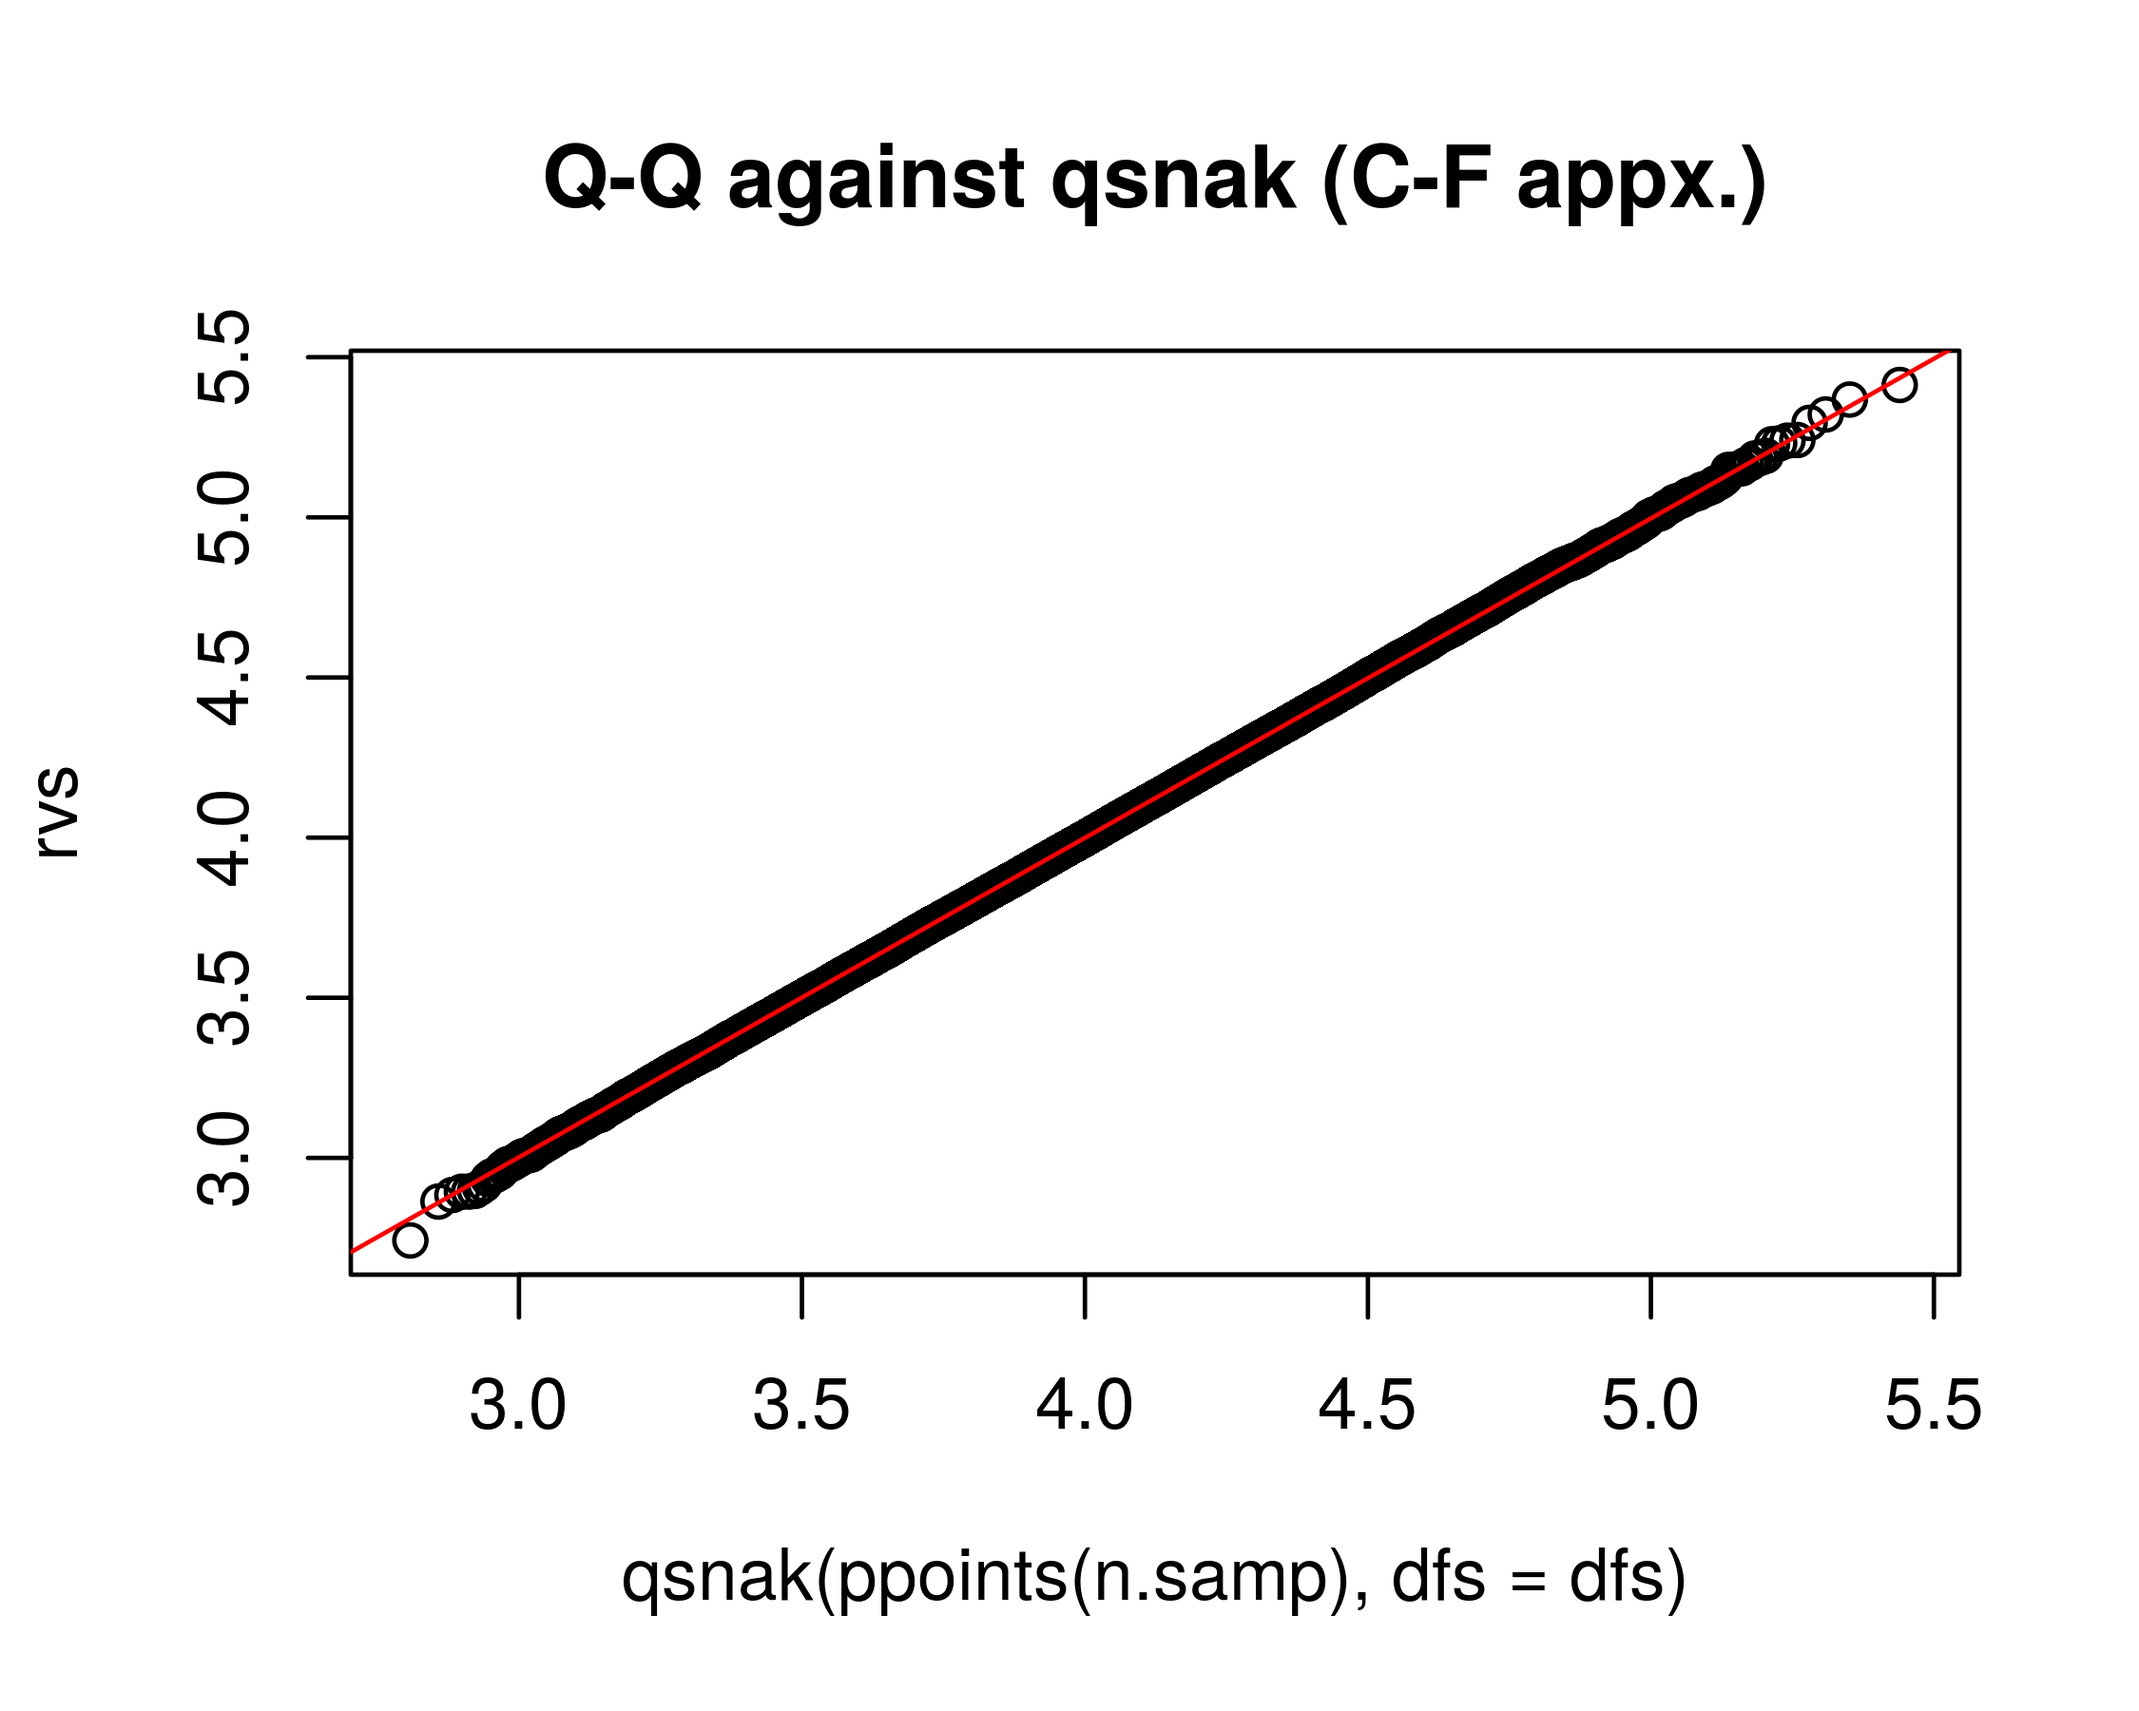
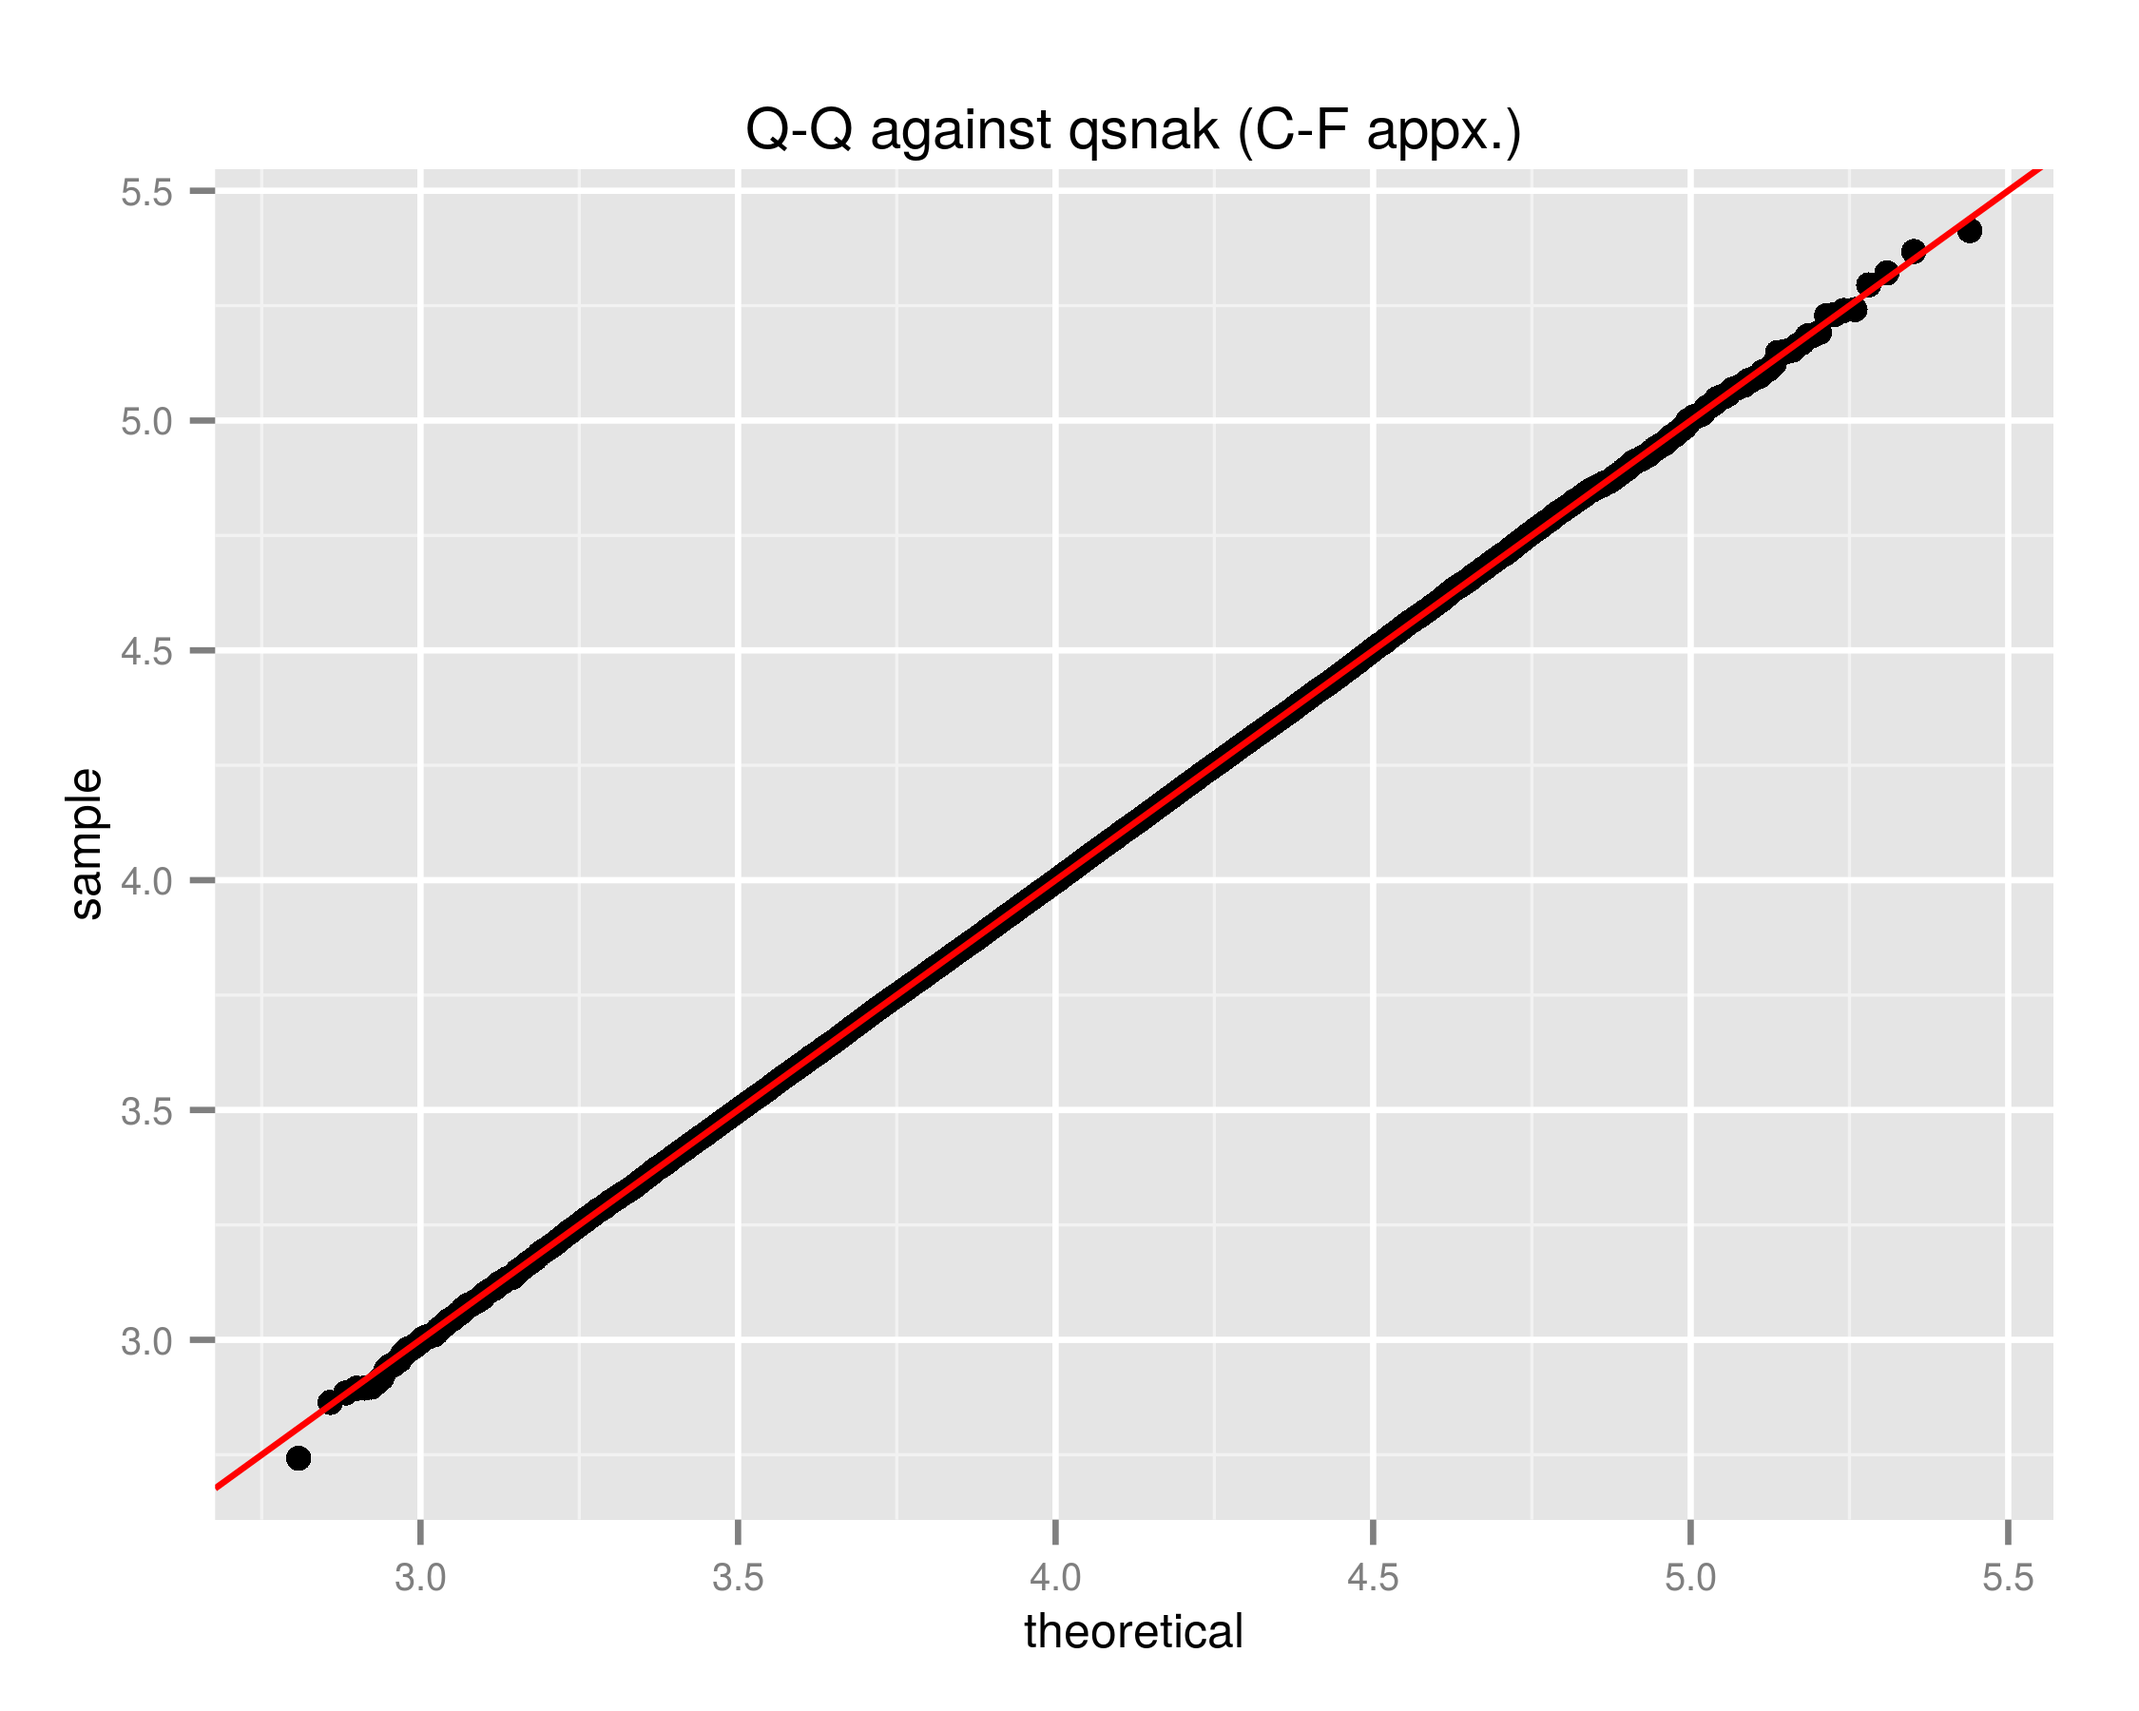
goodnight

diff --git a/README.md b/README.md
@@ -64,8 +64,16 @@ dfs <- c(8, 15, 4000, 10000)
 set.seed(18181)
 # now draw from the distribution
 rvs <- rsnak(n.samp, dfs)
-qqnorm(rvs)
-qqline(rvs, col = "red")
+
+data <- data.frame(draws = rvs)
+mu <- mean(rvs)
+sigma <- sd(rvs)
+library(ggplot2)
+ph <- ggplot(data, aes(sample = draws)) + stat_qq(dist = function(p) {
+    qnorm(p, mean = mu, sd = sigma)
+}) + geom_abline(slope = 1, intercept = 0, colour = "red") + 
+    theme(text = element_text(size = 8)) + labs(title = "Q-Q plot (against normality)")
+print(ph)
 ```
 
 <img src="github_extra/figure/testit-1.png" title="plot of chunk testit" alt="plot of chunk testit" width="600px" height="500px" />
@@ -155,9 +163,13 @@ The q-q plot looks better now:
 
 
 ```r
-qqplot(qsnak(ppoints(n.samp), dfs = dfs), rvs, main = "Q-Q against qsnak (C-F appx.)")
-qqline(rvs, distribution = function(p) qsnak(p, dfs), 
-    col = "red")
+data <- data.frame(draws = rvs)
+library(ggplot2)
+ph <- ggplot(data, aes(sample = draws)) + stat_qq(dist = function(p) {
+    qsnak(p, dfs = dfs)
+}) + geom_abline(slope = 1, intercept = 0, colour = "red") + 
+    theme(text = element_text(size = 8)) + labs(title = "Q-Q against qsnak (C-F appx.)")
+print(ph)
 ```
 
 <img src="github_extra/figure/improvedqq-1.png" title="plot of chunk improvedqq" alt="plot of chunk improvedqq" width="600px" height="500px" />
@@ -295,5 +307,13 @@ print(ph)
 ```
 
 <img src="github_extra/figure/chithree-1.png" title="plot of chunk chithree" alt="plot of chunk chithree" width="600px" height="500px" />
+
+### code coverage
+
+Whee! look at this:
+
+[![codecov.io](http://codecov.io/github/shabbychef/PDQutils/coverage.svg?branch=master)](http://codecov.io/github/shabbychef/PDQutils?branch=master)
+![codecov.io](http://codecov.io/github/shabbychef/PDQutils/branch.svg?branch=master)
+
 
 
